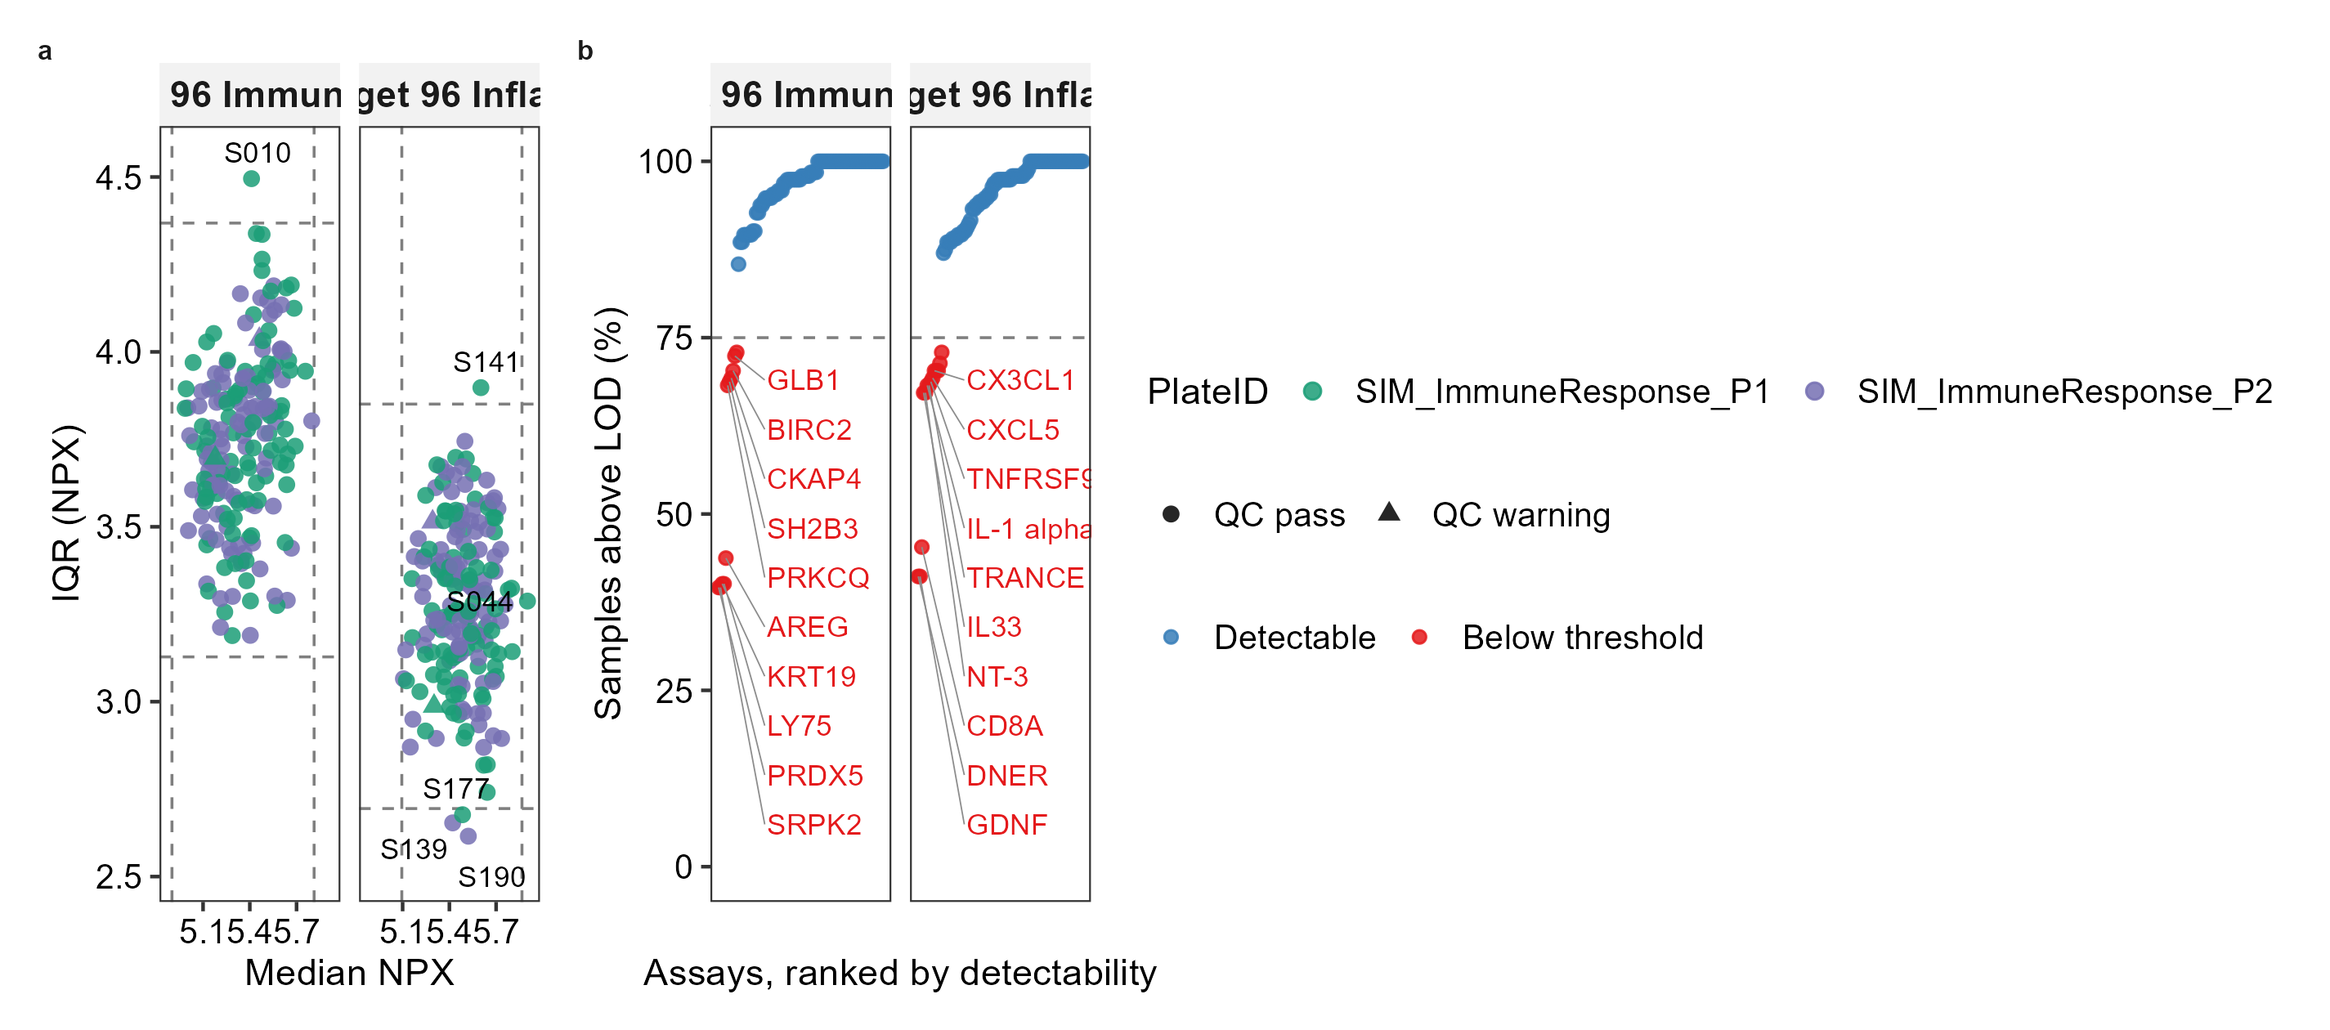
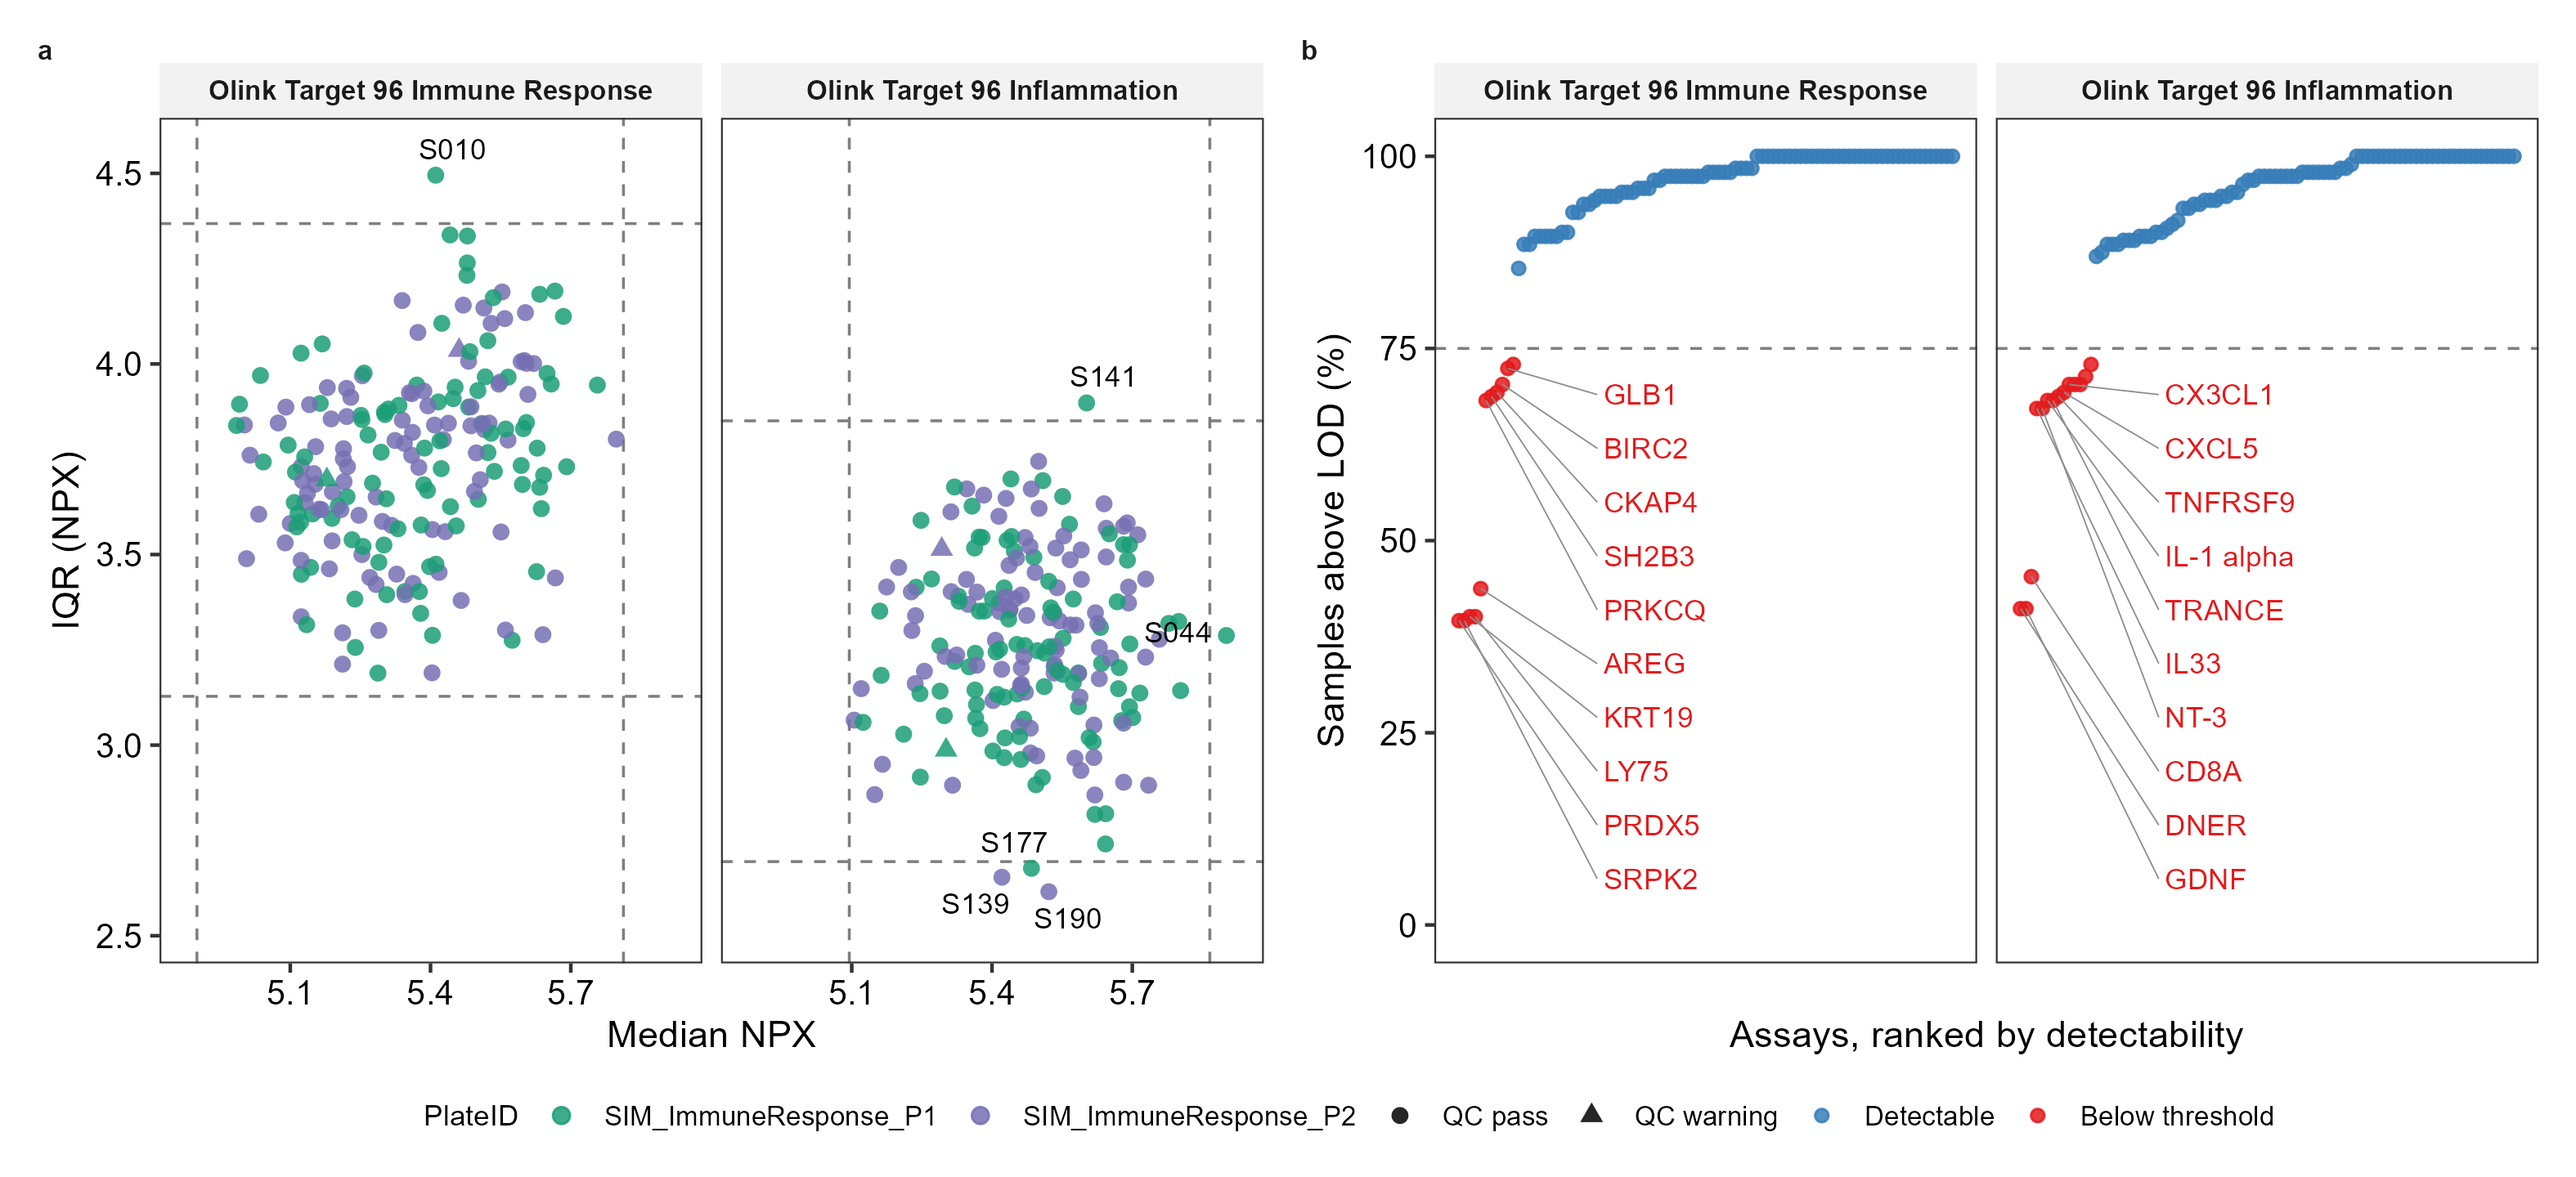
Compact bottom legend for Sample & Assay Quality Control figure

diff --git a/articles/plots_using_simulated_data.html b/articles/plots_using_simulated_data.html
@@ -111,7 +111,17 @@ panels).</p>
 <code class="sourceCode R"><span><span class="va">p_qc</span> <span class="op">&lt;-</span> <span class="fu"><a href="../reference/plot_qc.html">plot_qc</a></span><span class="op">(</span><span class="va">PROBC</span>, color_by <span class="op">=</span> <span class="st">"PlateID"</span>, sd_cutoff <span class="op">=</span> <span class="fl">2.5</span><span class="op">)</span></span>
 <span><span class="va">p_lod</span> <span class="op">&lt;-</span> <span class="fu"><a href="../reference/plot_lod.html">plot_lod</a></span><span class="op">(</span><span class="va">PROBC</span>, threshold <span class="op">=</span> <span class="fl">75</span><span class="op">)</span></span>
 <span><span class="kw">if</span> <span class="op">(</span><span class="fu"><a href="https://rdrr.io/r/base/ns-load.html" class="external-link">requireNamespace</a></span><span class="op">(</span><span class="st">"patchwork"</span>, quietly <span class="op">=</span> <span class="cn">TRUE</span><span class="op">)</span><span class="op">)</span> <span class="op">{</span></span>
-<span>  <span class="fu"><a href="../reference/olinkviz_combine.html">olinkviz_combine</a></span><span class="op">(</span><span class="va">p_qc</span>, <span class="va">p_lod</span>, journal <span class="op">=</span> <span class="st">"nature"</span><span class="op">)</span></span>
+<span>  <span class="fu"><a href="../reference/olinkviz_combine.html">olinkviz_combine</a></span><span class="op">(</span><span class="va">p_qc</span>, <span class="va">p_lod</span>, journal <span class="op">=</span> <span class="st">"nature"</span><span class="op">)</span> <span class="op">&amp;</span></span>
+<span>    <span class="fu"><a href="https://ggplot2.tidyverse.org/reference/theme.html" class="external-link">theme</a></span><span class="op">(</span></span>
+<span>      legend.position  <span class="op">=</span> <span class="st">"bottom"</span>,</span>
+<span>      legend.box       <span class="op">=</span> <span class="st">"horizontal"</span>,</span>
+<span>      legend.box.just  <span class="op">=</span> <span class="st">"center"</span>,</span>
+<span>      legend.margin    <span class="op">=</span> <span class="fu"><a href="https://ggplot2.tidyverse.org/reference/element.html" class="external-link">margin</a></span><span class="op">(</span><span class="fl">0</span>, <span class="fl">0</span>, <span class="fl">0</span>, <span class="fl">0</span><span class="op">)</span>,</span>
+<span>      legend.spacing.x <span class="op">=</span> <span class="fu"><a href="https://rdrr.io/r/grid/unit.html" class="external-link">unit</a></span><span class="op">(</span><span class="fl">0.2</span>, <span class="st">"cm"</span><span class="op">)</span>,</span>
+<span>      legend.text      <span class="op">=</span> <span class="fu"><a href="https://ggplot2.tidyverse.org/reference/element.html" class="external-link">element_text</a></span><span class="op">(</span>size <span class="op">=</span> <span class="fl">8</span><span class="op">)</span>,</span>
+<span>      legend.title     <span class="op">=</span> <span class="fu"><a href="https://ggplot2.tidyverse.org/reference/element.html" class="external-link">element_text</a></span><span class="op">(</span>size <span class="op">=</span> <span class="fl">8.5</span><span class="op">)</span>,</span>
+<span>      strip.text       <span class="op">=</span> <span class="fu"><a href="https://ggplot2.tidyverse.org/reference/element.html" class="external-link">element_text</a></span><span class="op">(</span>size <span class="op">=</span> <span class="fl">8</span><span class="op">)</span></span>
+<span>    <span class="op">)</span></span>
 <span><span class="op">}</span> <span class="kw">else</span> <span class="op">{</span></span>
 <span>  <span class="va">p_qc</span></span>
 <span><span class="op">}</span></span></code></pre></div>
